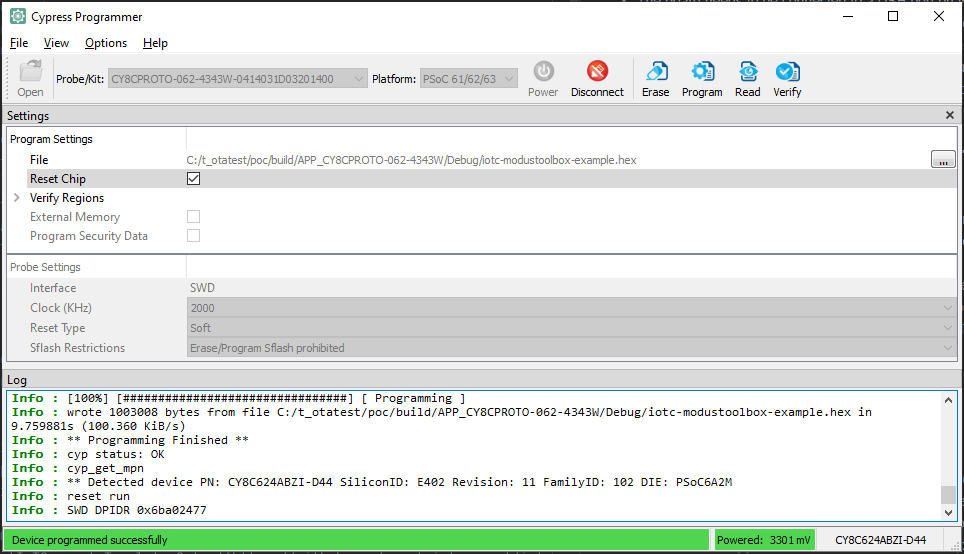
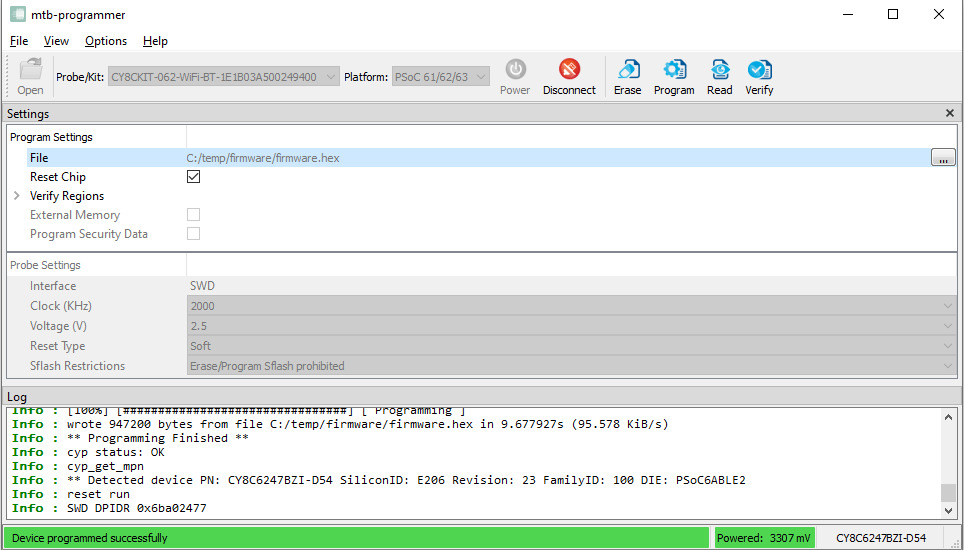
Update the quickstart demo since the programming tool change

Changed region(s): [[0.0, 0.0, 1.0, 1.0], [0.1245, 0.4018, 0.1556, 0.4327]]

diff --git a/QUICKSTART_DEMO.md b/QUICKSTART_DEMO.md
@@ -12,7 +12,7 @@ which is named "USB Serial". Use defaults for 115200 baud: 8 bits, 1 stop bit, n
 Firmware logs will be available on that COM port. 
 
 ## Program the prebuild Firmware
-* Download the [Cypress Programmer](https://softwaretools.infineon.com/tools/com.ifx.tb.tool.cypressprogrammer?_ga=2.62648364.1833039610.1681757143-213784066.1663170031).
+* Download the [ModusToolbox Programming Tools](https://www.infineon.com/cms/en/design-support/tools/programming-testing/psoc-programming-solutions/).
 * Download the prebuild [Bootloader]() and [Application]() firmware. Program the bootloader first and then the application firmware.
 * Launch the programmer software, **Open** the hex firwmare on the top left and Click **Connect**.
 * Click **Program** button on the top right and wait for the propress bar to be done as the image shown below.
